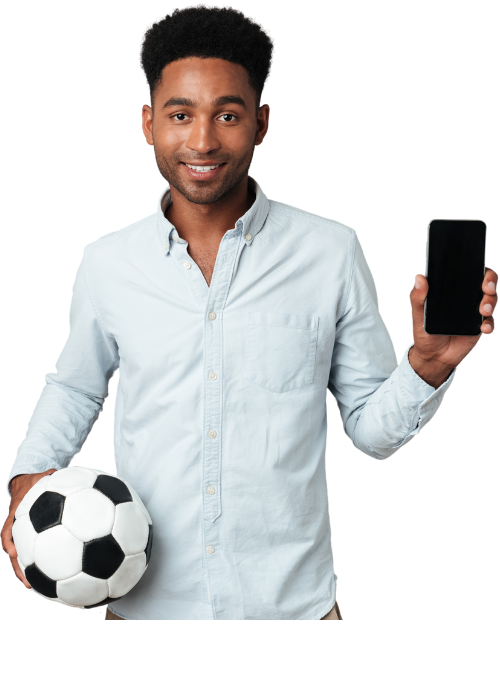
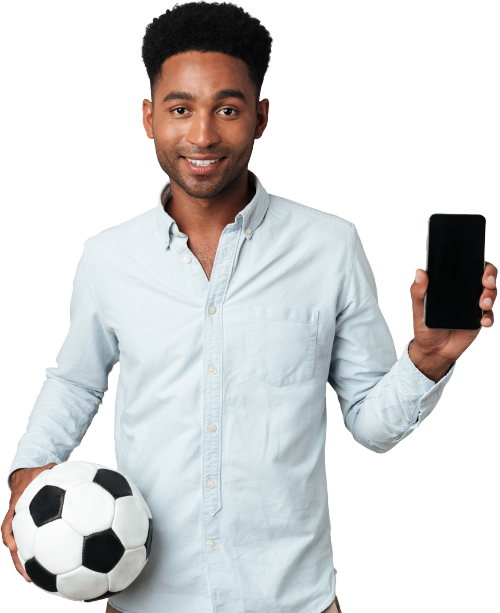
Terminando a landing page

diff --git a/landing page/index.html b/landing page/index.html
@@ -7,6 +7,13 @@
     <link rel="preconnect" href="https://fonts.googleapis.com">
     <link rel="preconnect" href="https://fonts.gstatic.com" crossorigin>
     <link href="https://fonts.googleapis.com/css2?family=Covered+By+Your+Grace&display=swap" rel="stylesheet">
+    <link rel="preconnect" href="https://fonts.googleapis.com">
+    <link rel="preconnect" href="https://fonts.gstatic.com" crossorigin>
+    <link href="https://fonts.googleapis.com/css2?family=Covered+By+Your+Grace&family=Poppins:ital,wght@0,100;0,200;0,300;0,400;0,500;0,600;0,700;0,800;0,900;1,100;1,200;1,300;1,400;1,500;1,600;1,700;1,800;1,900&display=swap" rel="stylesheet">
+    <link href="https://cdn.jsdelivr.net/npm/bootstrap@5.3.3/dist/css/bootstrap.min.css" rel="stylesheet">
+    <link href="https://cdnjs.cloudflare.com/ajax/libs/font-awesome/6.0.0-beta3/css/all.min.css" rel="stylesheet">
+    <script src="https://cdn.jsdelivr.net/npm/@popperjs/core@2.11.6/dist/umd/popper.min.js"></script>
+    <script src="https://cdn.jsdelivr.net/npm/bootstrap@5.3.3/dist/js/bootstrap.min.js"></script>
     <link rel="stylesheet" href="styles.css">
 </head>
 <body>
@@ -42,13 +49,13 @@
             <h2>Bem-vindo à nossa plataforma de Peneiras!</h2>
             <p>
                 Aqui, <strong>conectamos talentos com oportunidades esportivas</strong> e oferecemos uma <strong>experiência prática</strong> e segura para jogadores e times.<br>
-                Explore as oportunidades de peneiras, conheça os requisitos de cada uma e cadastre-se para dar o próximo passo na sua jornada esportiva!
-            </p>
+                <strong>Explore as oportunidades</strong> de peneiras, conheça os requisitos de cada uma e cadastre-se para dar o <strong>próximo passo na sua jornada esportiva!</strong>
+            </p><br>
         </section>
 
         <section class="support">
             <div class="support-title">
-                <h2>Estamos ao seu lado para <br>apoiar sua jornada</h2>
+                <h2>Estamos ao seu lado para <br>apoiar sua jornada</h2><br><br><br>
             </div>
             <div class="support-content">
                 <img src="assets/imgs/pessoa1.png" alt="Pessoa segurando celular">
@@ -62,28 +69,35 @@
         </section>
     </main>
 
-    <footer>
-        <div class="footer-content">
-            <div class="footer-logo">
-                <img src="assets/imgs/logo.png" alt="Talent Scout Logo">
-                <p>Talent Scout</p>
-            </div>
-            <div class="footer-links">
-                <h4>Company</h4>
-                <ul>
-                    <li><a href="#">About us</a></li>
-                    <li><a href="#">Contact us</a></li>
-                    <li><a href="#">Privacy Policy</a></li>
-                </ul>
-            </div>
-            <div class="footer-contact">
-                <h4>Contato</h4>
-                <p>Email: talentscout@gmail.com</p>
-            </div>
-        </div>
-        <div class="footer-bottom">
-            <p>© 2022 TalentScout, Inc. All rights reserved.</p>
-        </div>
+    <!-- Remove o container se quiser que o Footer ocupe a largura total da tela -->
+<div class="my-5">
+    <footer class="bg-dark text-center text-white">
+      <div class="p-4">
+        <section class="mb-4">
+          <a class="btn btn-outline-light btn-floating m-1" href="#!" role="button">
+            <i class="fab fa-facebook-f"></i>
+          </a>
+          <a class="btn btn-outline-light btn-floating m-1" href="#!" role="button">
+            <i class="fab fa-twitter"></i>
+          </a>
+          <a class="btn btn-outline-light btn-floating m-1" href="#!" role="button">
+            <i class="fab fa-google"></i>
+          </a>
+          <a class="btn btn-outline-light btn-floating m-1" href="#!" role="button">
+            <i class="fab fa-instagram"></i>
+          </a>
+          <a class="btn btn-outline-light btn-floating m-1" href="#!" role="button">
+            <i class="fab fa-linkedin-in"></i>
+          </a>
+          <a class="btn btn-outline-light btn-floating m-1" href="#!" role="button">
+            <i class="fab fa-github"></i>
+          </a>
+        </section>
+      </div>
+      <div class="text-center p-3" style="background-color: rgba(0, 0, 0, 0.2);">
+        © 2024 Copyright
+        <a>Talent Scout</a>
+      </div>
     </footer>
-</body>
+  </div>
 </html>

diff --git a/landing page/styles.css b/landing page/styles.css
@@ -1,5 +1,5 @@
 body {
-    font-family: Arial, sans-serif;
+    font-family: Poppins, sans-serif;
     margin: 0;
     padding: 0;
     line-height: 1.6;
@@ -19,10 +19,13 @@ h1, h2 {
     color: #333;
 }
 a{
-    text-decoration-line: none;
+    text-decoration-line: none !important;
 }
 .times{
-    color: rgb(69, 112, 5);
+    color: rgb(69, 112, 5) !important;
+}
+.navigation a{
+    color: #8b7474;
 }
 .header {
     display: flex;
@@ -35,7 +38,7 @@ a{
     gap: 15px;
 }
 .logo img {
-    height: 90px;
+    height: 80px;
 }
 #png_logo{
     size: 10px;
@@ -70,7 +73,7 @@ a{
     display: flex;
     justify-content: space-around;
     align-items: center;
-
+    position: relative;
     background: #eafaf1;
 }
 .hero-content {
@@ -78,7 +81,12 @@ a{
 }
 .hero-image img {
     max-height: 32vw;
-    max-width: 100%; 
+    max-width: 100%;
+    margin-left: 3%;
+    z-index: 10%;
+    bottom: 0%;
+    position:relative;
+    right: 5%;
 }
 .hero h1{
     font-size: 90px;
@@ -102,65 +110,58 @@ a{
     color: #333;
     font-size: 35px;
 }
-
-/* Support Section */
+.info p{
+    max-width: 68%;
+    justify-self: center
+}
 .support {
     background: #fff9e6;
     display: flex;
     flex-direction: column;
+    height: fit-content;
+    position: relative;
 }
 .support img{
     max-height: 32vw;
-    max-width: 100%; 
+    max-width: 100%;
+    margin-left: 3%;
+    z-index: 10%;
+    bottom: 0%;
+    position:absolute;
+    left: 1%;
 }
 .support h2{
-        font-family: "Covered By Your Grace", cursive;
+        font-family: "Covered By Your Grace";
         text-align: center;
         font-size: 80px;
         color: #009387;
-        
+        width: 59%;
+        justify-self: center;
+        left: 0%;
 }
 .support-content {
     display: flex;
     justify-content: space-around;
     align-items: center;
     max-height: fit-content;
+    font-size: 3.1vh;
+    margin-right: 3%;
+    position: relative;
 }
-
-/* Footer */
-footer {
-    background: #333;
-    color: #fff;
-    padding: 2rem 0;
+.support li{
+    height: 7vw;
+    margin-left: 60vh;
+    position: relative;
 }
-.footer-content {
+footer{
+    width: 100%;
     display: flex;
-    justify-content: space-between;
-    align-items: flex-start;
+    flex-direction: column;
+    border-top: #344b49 solid 4px;
 }
-.footer-logo img {
-    max-width: 50px;
-}
-/* Footer */
-footer {
-    background: #333;
-    color: #fff;
-    padding: 2rem 0;
-}
-.footer-content {
+.my-5{
     display: flex;
-    justify-content: space-between;
-    align-items: flex-start;
-    padding-bottom: 1rem;
-}
-.footer-logo img {
-    max-width: 50px;
-}
-.footer-bottom {
-    text-align: center;
-    font-size: 0.875rem;
-    border-top: 1px solid #444;
-    padding-top: 1rem;
-    margin-top: 1rem;
-    color: #ccc;
+    width: 100%;
+    margin-top: 0rem !important;
+    margin-bottom: 0rem !important;
 }
